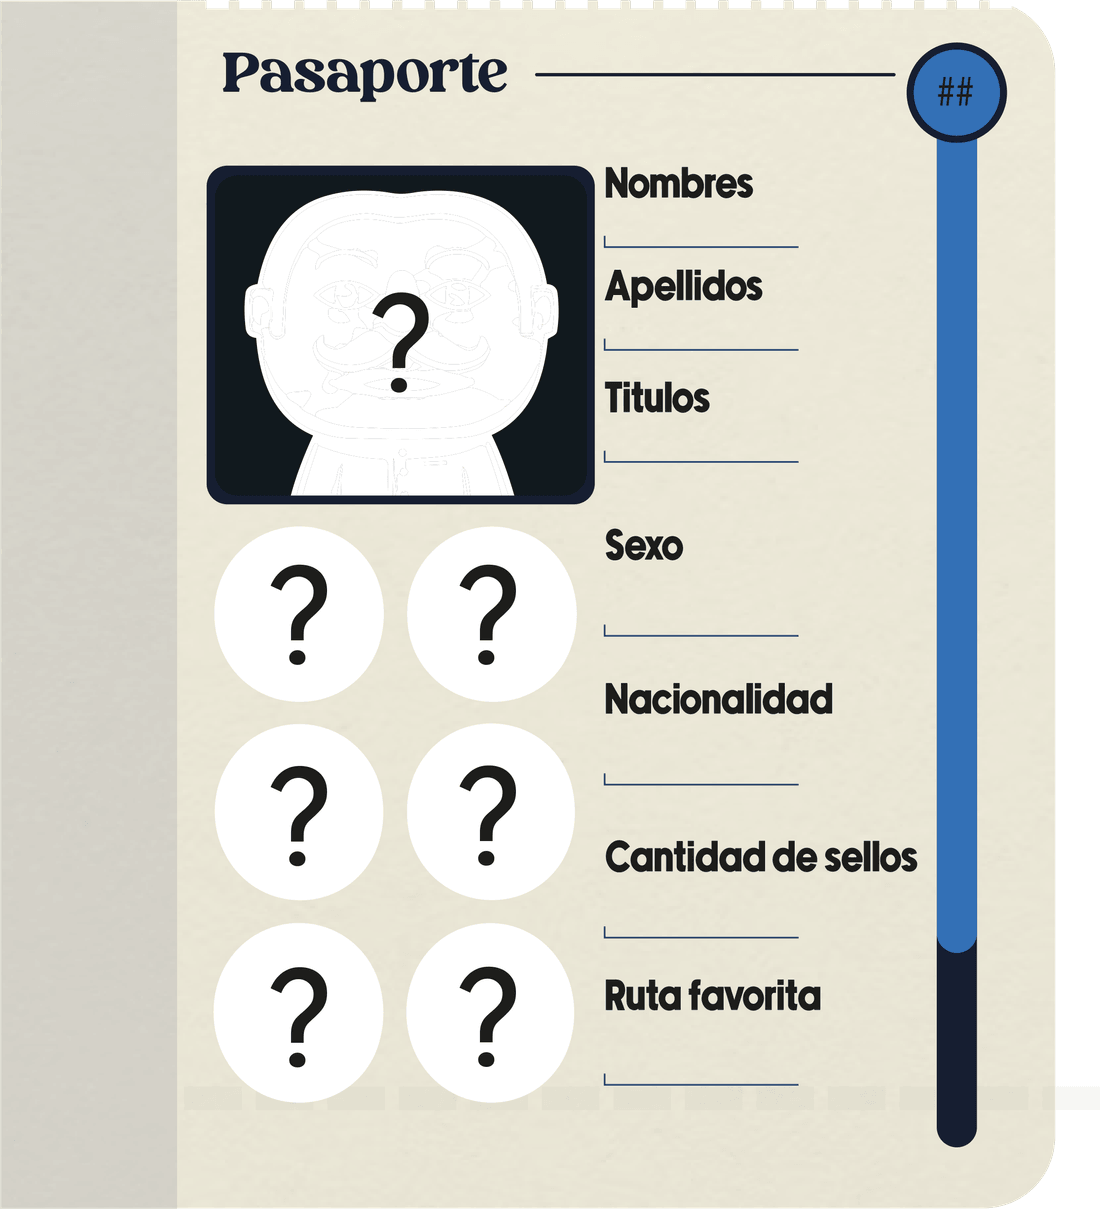
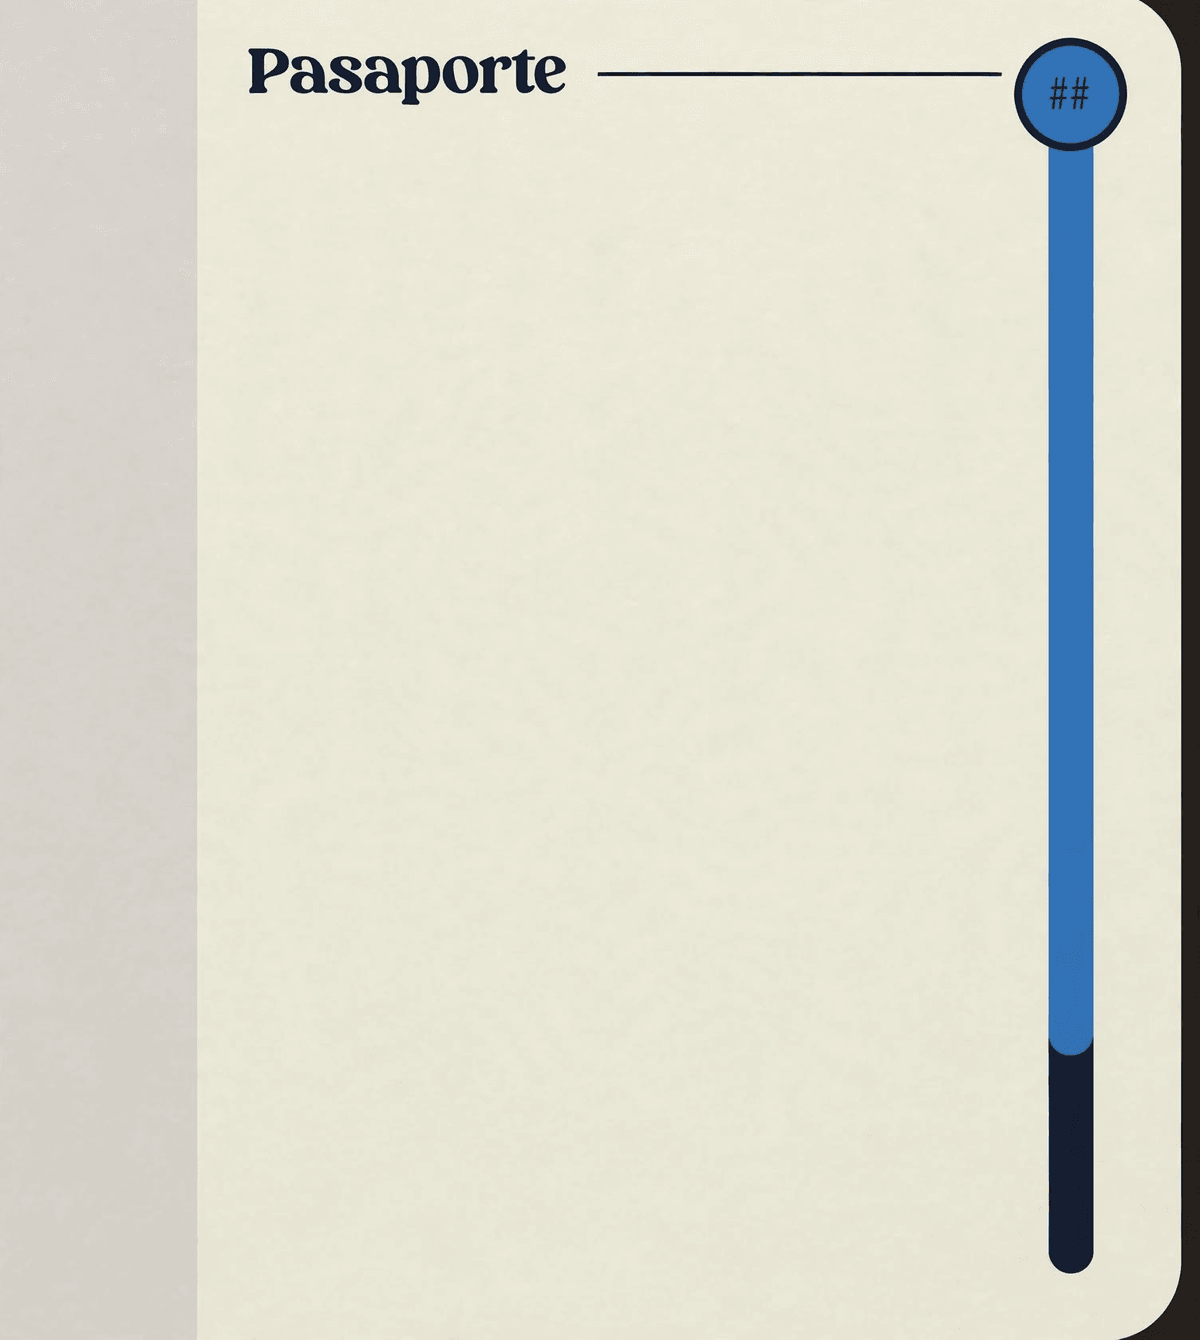
feat(pasaporte): rediseno del pasaporte visual sobre la imagen en blanco
Numero de pasaporte sobre el ## impreso, avatar sin fondo, nivel, sellos y ruta, y candados en los sellos vacios.

diff --git a/src/components/PasaporteVisual.css b/src/components/PasaporteVisual.css
@@ -1,7 +1,7 @@
 /* =========================================================
    Pasaporte de viajero: la imagen del documento con los datos encima.
-   Todas las posiciones son porcentajes del documento recortado (2230 x 2451 px de la imagen original), medidas sobre
-   los campos impresos; los tamaños de letra usan cqw (1 % del ancho del documento) para que todo escale junto.
+   Todas las posiciones son porcentajes del documento recortado (1504 x 1680 px de la imagen original), medidas sobre
+   la imagen en blanco; los tamaños de letra usan cqw (1 % del ancho del documento) para que todo escale junto.
    ========================================================= */
 
 .pasaporte-fondo {
@@ -42,8 +42,8 @@
 .pasaporte-doc {
   position: relative;
   container-type: inline-size;
-  width: min(100%, 440px, calc((100dvh - 100px) * 2230 / 2451));
-  aspect-ratio: 2230 / 2451;
+  width: min(100%, 440px, calc((100dvh - 100px) * 1504 / 1680));
+  aspect-ratio: 1504 / 1680;
   background-size: 100% 100%;
   background-repeat: no-repeat;
   filter: drop-shadow(0 18px 28px rgba(0, 0, 0, 0.5));
@@ -56,34 +56,35 @@
   to { opacity: 1; transform: none; }
 }
 
-/* Número de pasaporte, sobre la línea que sigue al título */
+/* Número de pasaporte: un disco del mismo azul tapa el "##" impreso y lleva el código en dos líneas */
 .pasaporte-numero {
   position: absolute;
-  left: 48.7%;
-  width: 32.5%;
-  top: 2.8%;
-  height: 3.2%;
+  left: 85%;
+  width: 8.3%;
+  aspect-ratio: 1;
+  top: 3.3%;
   display: flex;
-  align-items: flex-end;
-  justify-content: flex-end;
-  font-size: 3.4cqw;
-  font-weight: 900;
-  letter-spacing: 0.06em;
+  flex-direction: column;
+  align-items: center;
+  justify-content: center;
+  border-radius: 50%;
+  background: #3271B8;
+  color: #fff;
+  font-family: ui-monospace, 'SFMono-Regular', Menlo, Consolas, monospace;
+  font-size: 2.2cqw;
+  font-weight: 800;
+  line-height: 1.1;
   text-transform: uppercase;
   white-space: nowrap;
 }
 
-/* Foto: cubre la silueta impresa con el mismo fondo oscuro del marco */
+/* Foto: el personaje sin fondo, o la foto de perfil con esquinas redondeadas */
 .pasaporte-foto {
   position: absolute;
-  left: 19.2%;
-  width: 34.4%;
-  top: 14.1%;
-  height: 27.1%;
-  padding: 2% 3% 0;
-  overflow: hidden;
-  border-radius: 1.6cqw;
-  background: #121A25;
+  left: 19.9%;
+  width: 22%;
+  top: 13.7%;
+  height: 28%;
 }
 .pasaporte-foto-img {
   display: block;
@@ -92,51 +93,73 @@
   object-fit: contain;
   object-position: center bottom;
 }
-.pasaporte-foto-img--perfil { object-fit: cover; object-position: center; margin: -2% -3% 0; width: 106%; height: 102%; }
+.pasaporte-foto-img--perfil { object-fit: cover; object-position: center; border-radius: 3cqw; box-shadow: 0 0 0 0.5cqw rgba(20, 26, 51, 0.18); }
 
-/* Datos: encima de la línea de cada campo */
-.pasaporte-valor {
+/* Nombre, país y datos, a la derecha de la foto */
+.pasaporte-datos {
   position: absolute;
-  left: 54.9%;
-  width: 29.1%;
-  height: 3.5%;
+  left: 46%;
+  width: 38.5%;
+  top: 13.7%;
+  height: 28%;
   display: flex;
-  align-items: flex-end;
-  padding-bottom: 0.5cqw;
-  font-size: 3.6cqw;
+  flex-direction: column;
+  justify-content: center;
+  gap: 1.4cqw;
+  min-width: 0;
+}
+.pasaporte-nombre {
+  font-size: 5.6cqw;
   font-weight: 900;
-  line-height: 1;
-  white-space: nowrap;
+  line-height: 1.1;
   overflow: hidden;
   text-overflow: ellipsis;
+  white-space: nowrap;
 }
-.pasaporte-valor--nombre { top: 17%; }
-.pasaporte-valor--nacionalidad { top: 61.6%; }
-.pasaporte-valor--sellos { top: 74.3%; }
-.pasaporte-valor--ruta { top: 86.4%; }
+.pasaporte-pais {
+  display: flex;
+  align-items: center;
+  gap: 1.2cqw;
+  margin-bottom: 1.4cqw;
+  font-size: 3cqw;
+  font-weight: 700;
+  color: #5B6178;
+}
+.pasaporte-bandera { width: 4.2cqw; height: 2.8cqw; border-radius: 0.4cqw; box-shadow: 0 0 0 0.2cqw rgba(20, 26, 51, 0.25); }
+.pasaporte-dato {
+  font-size: 3.4cqw;
+  font-weight: 800;
+  line-height: 1.2;
+  overflow: hidden;
+  display: -webkit-box;
+  -webkit-box-orient: vertical;
+  -webkit-line-clamp: 2;
+}
 
-/* Sellos: seis círculos en dos columnas; cada uno tapa su "?" con un disco blanco y lleva la insignia y la marca SELLADO */
+/* Sellos: seis círculos en tres columnas y dos filas */
 .pasaporte-sello {
   position: absolute;
-  width: 15.5%;
+  width: 19.3%;
   aspect-ratio: 1;
   display: flex;
   align-items: center;
   justify-content: center;
   border-radius: 50%;
   background: #fff;
+  border: 0.6cqw solid #C9C3B3;
 }
-.pasaporte-sello--0 { left: 19.4%; top: 43.7%; }
-.pasaporte-sello--1 { left: 36.9%; top: 43.7%; }
-.pasaporte-sello--2 { left: 19.4%; top: 60.1%; }
-.pasaporte-sello--3 { left: 36.9%; top: 60.1%; }
-.pasaporte-sello--4 { left: 19.4%; top: 76.6%; }
-.pasaporte-sello--5 { left: 36.9%; top: 76.6%; }
+.pasaporte-sello--0 { left: 19.9%; top: 48.8%; }
+.pasaporte-sello--1 { left: 42.2%; top: 48.8%; }
+.pasaporte-sello--2 { left: 64.5%; top: 48.8%; }
+.pasaporte-sello--3 { left: 19.9%; top: 69.6%; }
+.pasaporte-sello--4 { left: 42.2%; top: 69.6%; }
+.pasaporte-sello--5 { left: 64.5%; top: 69.6%; }
 .pasaporte-sello-insignia {
   width: 76%;
   height: 76%;
   object-fit: contain;
 }
+.pasaporte-candado { width: 34%; height: 34%; color: #A7A9B2; }
 .pasaporte-sello-marca {
   position: absolute;
   inset: 3%;
@@ -155,31 +178,27 @@
   display: flex;
   align-items: center;
   justify-content: center;
-  border: 0.55cqw solid currentColor;
+  border: 0.6cqw solid currentColor;
   border-radius: 50%;
   box-shadow: inset 0 0 0 0.3cqw rgba(198, 40, 40, 0.3);
-  font-size: 2.35cqw;
+  font-size: 2.6cqw;
   font-weight: 900;
   letter-spacing: 0.05em;
   text-transform: uppercase;
   text-shadow: 0 0 0.5cqw rgba(255, 255, 255, 0.95), 0 0 0.9cqw rgba(255, 255, 255, 0.85);
 }
 
-/* "+N": hay más sellos de los que caben */
+/* "+N más": hay más sellos de los que caben */
 .pasaporte-mas {
   position: absolute;
-  left: 27.3%;
-  width: 17%;
-  top: 94.2%;
-  height: 3.4%;
+  left: 19.9%;
+  width: 63.9%;
+  top: 90%;
   display: flex;
-  align-items: center;
   justify-content: center;
-  font-size: 4.4cqw;
-  font-weight: 900;
-  color: #fff;
-  background: #1B2A6B;
-  border-radius: 999px;
+  font-size: 3cqw;
+  font-weight: 700;
+  color: #5B6178;
 }
 
 @media (prefers-reduced-motion: reduce) {

diff --git a/src/components/PasaporteVisual.jsx b/src/components/PasaporteVisual.jsx
@@ -1,6 +1,6 @@
 import { useEffect, useRef } from 'react';
 import { createPortal } from 'react-dom';
-import { X } from 'lucide-react';
+import { X, Lock } from 'lucide-react';
 import { useTranslation } from 'react-i18next';
 import './PasaporteVisual.css';
 import baseImg from '../assets/pasaporte_base.png';
@@ -22,8 +22,8 @@ function leerLocal(clave) {
 }
 
 // El pasaporte de viajero: la imagen del documento con los datos del usuario encima y sus sellos con la marca SELLADO.
-//   usuario: { id, nombre_usuario, avatar_personaje }, sellos: los del usuario, sitios: todos, rutas: [{ nombre, sitios }].
-function PasaporteVisual({ usuario, sellos, sitios, rutas, onCerrar }) {
+//   usuario: { id, nombre_usuario, avatar_personaje }, sellos: los del usuario, sitios: todos, rutas: [{ nombre, sitios }], nivel: número.
+function PasaporteVisual({ usuario, sellos, sitios, rutas, nivel = 1, onCerrar }) {
   const { t } = useTranslation();
   const cerrarRef = useRef(null);
   const accionRef = useRef(onCerrar);
@@ -69,7 +69,7 @@ function PasaporteVisual({ usuario, sellos, sitios, rutas, onCerrar }) {
         aria-modal="true"
         aria-label={t('pasaporteVisual.aria', { nombre })}
       >
-        <span className="pasaporte-numero">{numeroDePasaporte(usuario?.id)}</span>
+        <span className="pasaporte-numero"><span>#</span><span>{numeroDePasaporte(usuario?.id).slice(1)}</span></span>
 
         <div className="pasaporte-foto">
           {fotoPerfil
@@ -77,12 +77,30 @@ function PasaporteVisual({ usuario, sellos, sitios, rutas, onCerrar }) {
             : <img className="pasaporte-foto-img" src={avatar} alt="" />}
         </div>
 
-        <span className="pasaporte-valor pasaporte-valor--nombre">{nombre}</span>
-        <span className="pasaporte-valor pasaporte-valor--nacionalidad">Nicaragua</span>
-        <span className="pasaporte-valor pasaporte-valor--sellos">{sellos.length}</span>
-        <span className="pasaporte-valor pasaporte-valor--ruta">{ruta ? ruta.nombre : t('pasaporteVisual.sinRuta')}</span>
+        <div className="pasaporte-datos">
+          <span className="pasaporte-nombre">{nombre}</span>
+          <span className="pasaporte-pais">
+            Nicaragua
+            <svg className="pasaporte-bandera" viewBox="0 0 30 20" aria-hidden="true">
+              <rect width="30" height="20" fill="#0067C6" />
+              <rect y="6.5" width="30" height="7" fill="#fff" />
+              <path d="M15 8.2l2 3.4h-4z" fill="#E0B100" />
+            </svg>
+          </span>
+          <span className="pasaporte-dato pasaporte-dato--nivel"><span aria-hidden="true">🌟</span> {t('pasaporteVisual.nivel', { n: nivel })}</span>
+          <span className="pasaporte-dato pasaporte-dato--sellos"><span aria-hidden="true">🗺</span> {t('pasaporteVisual.sellosDe', { n: deSitio.length, total: sitios.length })}</span>
+          <span className="pasaporte-dato pasaporte-dato--ruta"><span aria-hidden="true">⭐</span> {t('pasaporteVisual.ruta', { nombre: ruta ? ruta.nombre : t('pasaporteVisual.sinRuta') })}</span>
+        </div>
 
-        {mostrados.map((sello, i) => {
+        {Array.from({ length: MAX_SELLOS }, (_, i) => {
+          const sello = mostrados[i];
+          if (!sello) {
+            return (
+              <div key={`vacio-${i}`} className={`pasaporte-sello pasaporte-sello--vacio pasaporte-sello--${i}`}>
+                <Lock className="pasaporte-candado" strokeWidth={2.2} aria-hidden="true" />
+              </div>
+            );
+          }
           const sitio = sitiosPorId[sello.sitioId];
           return (
             <div key={sello.id ?? sello.sitioId} className={`pasaporte-sello pasaporte-sello--${i}`} title={sitio.name}>
@@ -92,7 +110,7 @@ function PasaporteVisual({ usuario, sellos, sitios, rutas, onCerrar }) {
           );
         })}
 
-        {resto > 0 && <span className="pasaporte-mas" aria-label={t('pasaporteVisual.masAria', { n: resto })}>+{resto}</span>}
+        {resto > 0 && <span className="pasaporte-mas">{t('pasaporteVisual.mas', { n: resto })}</span>}
       </div>
     </div>,
     document.body,

diff --git a/src/components/MisSellos.jsx b/src/components/MisSellos.jsx
@@ -112,7 +112,7 @@ function MisSellos({ sellos, sitios, rutas = [], usuario = null, onNavigate, onS
       <BottomNav activo="pasaporte" onNavigate={onNavigate} />
 
       {verPasaporte && (
-        <PasaporteVisual usuario={usuario} sellos={sellos} sitios={sitios} rutas={rutas} onCerrar={() => setVerPasaporte(false)} />
+        <PasaporteVisual usuario={usuario} sellos={sellos} sitios={sitios} rutas={rutas} nivel={nivelInfo?.nivel} onCerrar={() => setVerPasaporte(false)} />
       )}
 
       {ciudadProximamente && (
